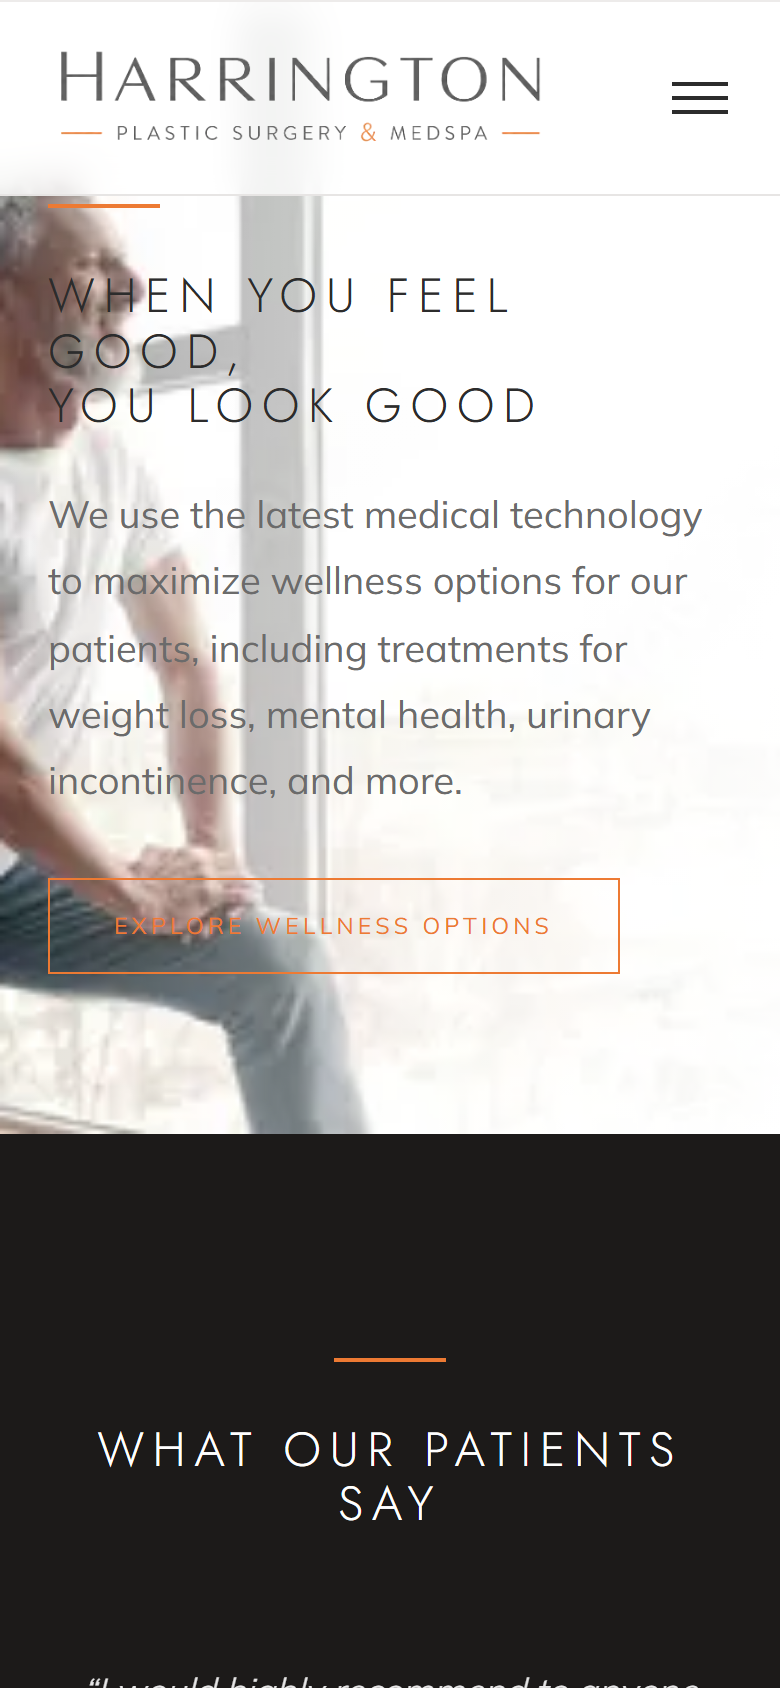
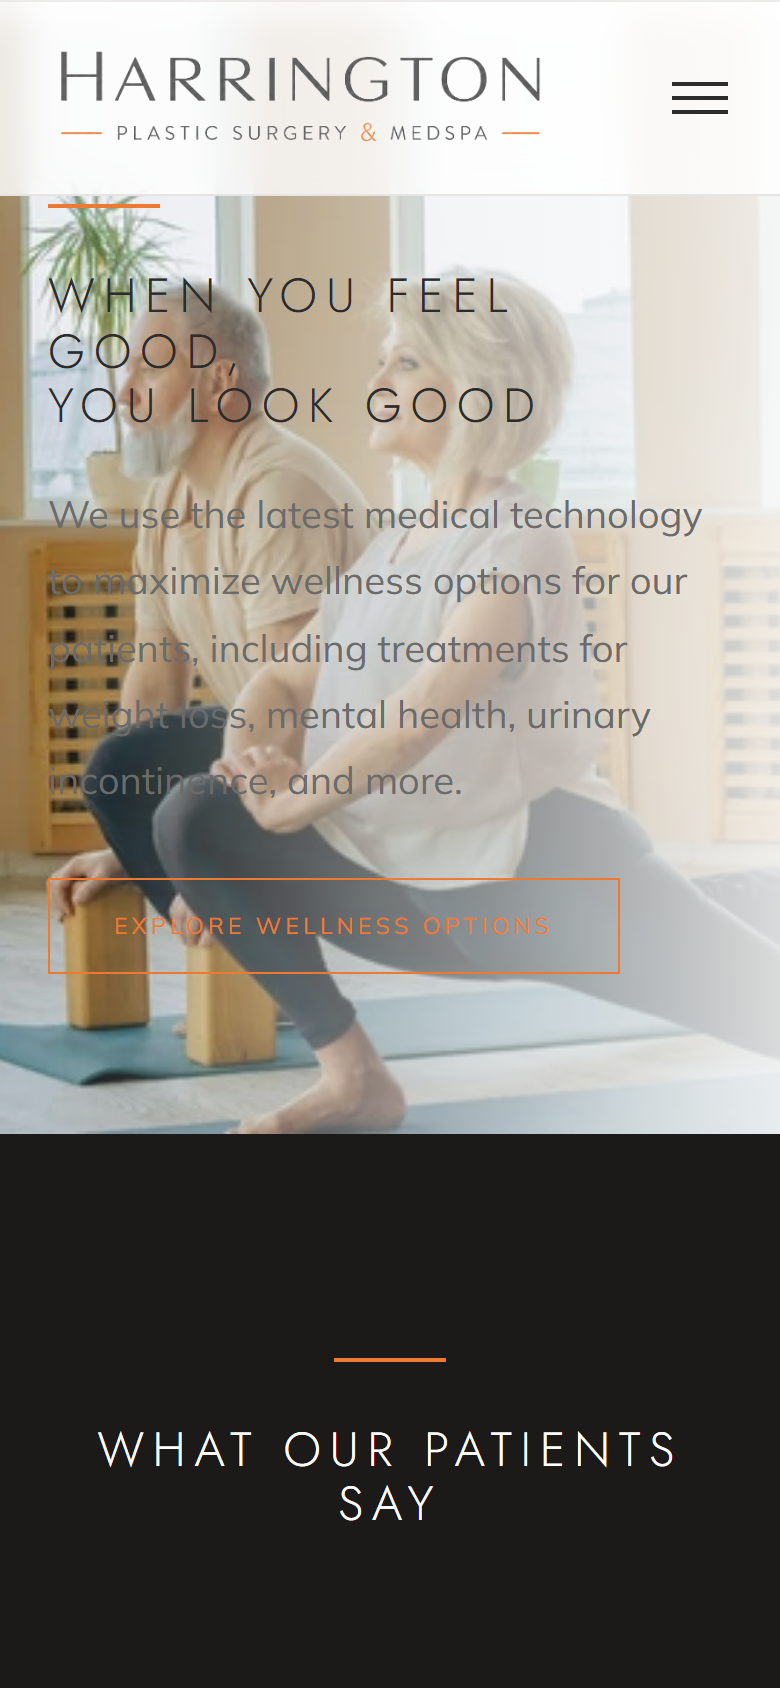
Wellness high-res fix: native-res detail crop + refreshed crops (3840px source, w=3840 @user/2x)

diff --git a/README.md b/README.md
@@ -35,6 +35,23 @@ desktop **1440×900** and mobile **390×844**.
 |---|---|
 | ![](shots/wellness-1440.png) | ![](shots/wellness-390.png) |
 
+### Wellness background — high-resolution fix
+The original `wellness.jpg` was only **1250×373** and looked soft when stretched
+full-bleed. Replaced with a genuinely high-res, license-clean photo
+([Pexels / Mikhail Nilov](https://www.pexels.com/photo/elderly-man-and-woman-doing-leg-stretching-exercise-on-yoga-mat-7500321/),
+Pexels License — free commercial use, no attribution required), downloaded at
+6000×4000 and cropped/stored at **3840×1813** in the repo.
+
+Verified on the live deploy @ **1440 / DPR 2**:
+- **(a) source intrinsic:** `public/images/wellness.jpg` = **3840×1813**
+- **(b) variant downloaded:** `/_next/image?...&w=3840&q=90` → **3840×1813 WebP**
+- **(c) ≥ 2880px @2x:** ✅ 3840 ≥ 2880 (crisp)
+
+**Native-resolution (100%) crop of the new background** — true pixels, no
+downscaling, showing genuine sharpness (hair, fabric, skin detail):
+
+![](shots/wellness-detail.png)
+
 ## Footer (~25% bigger; renamed; aligned bottoms; orange rules flank map)
 | 1440 | 390 |
 |---|---|